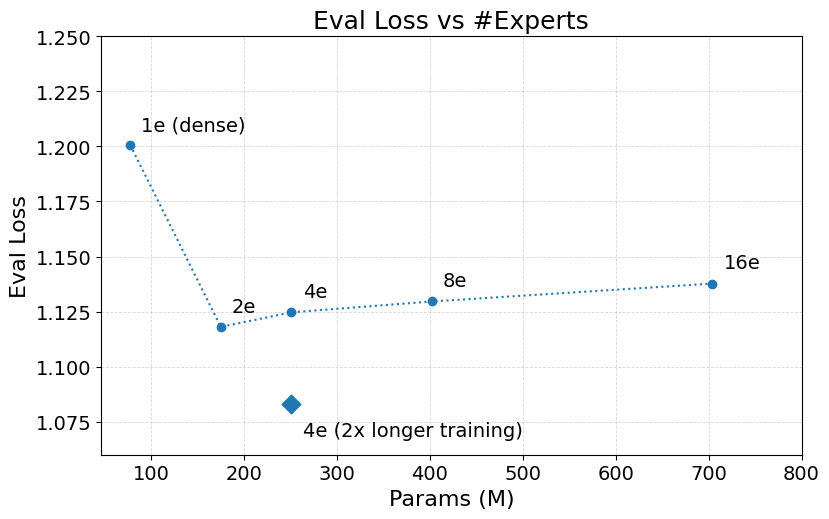
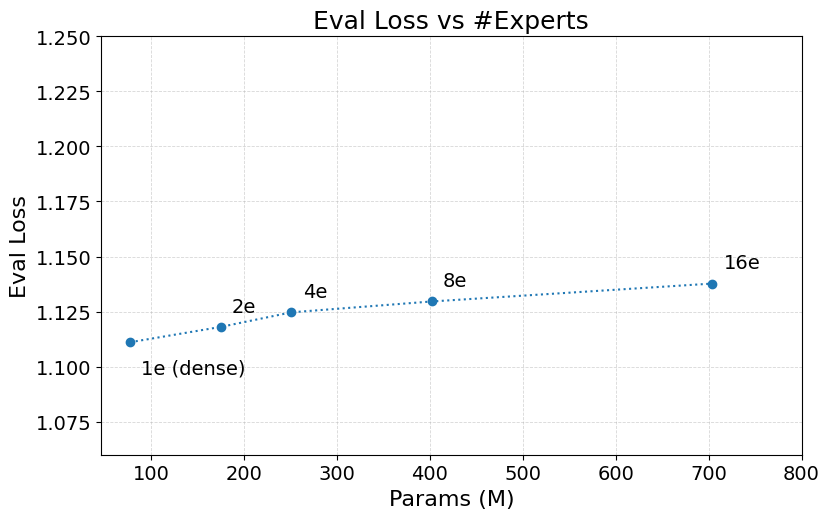
scaling expert prefinal

diff --git a/readme.md b/readme.md
@@ -177,25 +177,23 @@ With a stable and effective load-balancing strategy in place, we now turn to the
 
 | make [exp. id]              | # Params | # Experts (E) | Eval Loss |
 |-----------------------------|---------:|:-------------:|----------:|
-| `01_moedl_dense`            |  77M     | 1             | 1.201     |
-| `b1_moedl_e2_k1`            | 175M     | 2             | **1.118** |
+| `01_moedl_dense`            | 137M     | 1             | 1.111     |
+| `b1_moedl_e2_k1`            | 175M     | 2             | 1.118     |
 | `b2_moedl_e4_k1`            | 251M     | 4             | 1.125     |
 | `b3_moedl_e8_k1`            | 402M     | 8             | 1.130     |
 | `b4_moedl_e16_k1`           | 704M     | 16            | 1.138     |
-| `b20_moedl_e4_k1_4ep`       | 251M     | 4             | **1.083** |
 
 <img src="assets/scaling_n_experts.png" width="500" style="height:auto;">
 
-This is a mixed result. All MoE variants outperform the dense baseline, confirming the effectiveness of MoE architectures in increasing model capacity while keeping per-token computation roughly constant. However, the 2-expert model achieves the best evaluation loss. This is somewhat unexpected, as we would anticipate continued gains when scaling to more experts (e.g., Fig. 1 in [Switch Transformer][switch]).
+Contrary to most ablations in the literature (e.g., Fig. 1 in [Switch Transformer][switch]), we observe monotonic performance degradation as expert count increases. We believe this is largely due to the sample inefficiency of sparse models. With a fixed budget of 1B tokens (TinyStories), increasing $E$ dilutes the training signal per expert ($\mathcal{D}_{expert} \approx \mathcal{D}_{total} / E$), leading to experts are significantly **undertrained** compared to the dense baseline. We plan to revisit this section in a few possible directions:
+1. **Iso-tokens-per-expert**: Train the MoE for E$\times$ more epochs so that each expert sees roughly the same amount of tokens as the dense model. If this fixes the loss, it validates undertraining and data starvation (dataset is probably too small). 
+2. **Scale E by dividing dense capacity**: An alternative scaling strategy that increases expert count while reducing per-expert capacity, potentially alleviating data starvation while keeping the overall ablation compute manageable.
+3. **Proportional Data Scaling**: Simply throw more data at it and move out of the TinyStories regime. This is conceptually straightforward, but deviates from our original goal of small-scale ablations.
 
-**Experts under-trained.** A likely explanation is expert undertraining at larger expert counts. In the dense setting, a single FFN sees approximately (B \times L \times N_{\text{steps}}) tokens during training. In an MoE model with (E) experts and (K=1), assuming balanced routing, these seen tokens are effectively partitioned across experts. As (E) increases, each expert sees fewer tokens, leading to under-trained experts. This is consistent with our results, which show deteriorating performance beyond (E=2).
-
-**E=4 with 2× longer training.** To validate this hypothesis, we conduct an additional experiment with (E=4) experts trained for 4 epochs instead of 2 (`b20_moedl_e4_k1_4ep`). This model sees approximately the same number of tokens per expert as E=2 trained with 2 epochs, and indeed achieves the better evaluation loss of 1.083.
-
-* to be continued ... *
+*We will revisit this once we improve the underlying kernel efficiency. At the moment, MoE layers are implemented by naively looping over experts (the standard HF approach). We plan to integrate a more efficient grouped GEMM implementation.*
 
 ---
-### MoE Resolution (Expert Granuarity)
+### MoE Resolution (Expert Granularity)
 
 [DeepSeekMoE][ds-moe] is among the first to propose *fine-grained expert segmentation*, also referred to as *expert granularity*. The core idea is to **use smaller experts but more of them**. We prefer the term **resolution**, as it directly reflects the actual E:K config, and implicitly conveys the sparsity ratio.
 
@@ -216,7 +214,7 @@ In addition to finer-grained experts, [DeepSeekMoE][ds-moe] also advocates the u
 
 While this intuition is appealing, [OLMoE (4.1.3)][olmoe] highlights a potential confound to the combinatorial argument. Shared experts are essentially fixed routing paths and contribute no additional combinations. At iso-active-expert settings, introducing shared experts effectively reduces the number of unique experts available for combination, which may be counter-productive for model expressivity (see Table).
 
-Empirical results in the literature are mixed. The proposer [DeepSeekMoE (Fig.3,6)][ds-moe] reports benefits from shared experts whereas [OLMoE (4.1.3)][olmoe] observes limited or negative impact. [NVIDIA's ablations][] show similar convergence behavior with and without shared experts, though in the specific context of upcycling a Nemotron-4 dense model into an MoE. Notably, most prior studies explore shared experts in a binary on/off setting.
+Empirical results in the literature are mixed. The proposer [DeepSeekMoE (Fig.3,6)][ds-moe] reports benefits from shared experts whereas [OLMoE (4.1.3)][olmoe] observes limited or negative impact. [NVIDIA's ablations][nv-upcycle] show similar convergence behavior with and without shared experts, though in the specific context of upcycling a Nemotron-4 dense model into an MoE. Notably, most prior studies explore shared experts in a binary on/off setting.
 
 Given the lightweight nature of our setup, we are able to explore this design axis more thoroughly by varying the number of shared experts while holding total active experts constant. Our baseline is E=32, K=4, 400M parameters with XX active. We vary the number of shared experts from 0 to 3, adjusting the unique experts accordingly to maintain a total of 4 active experts.
 
